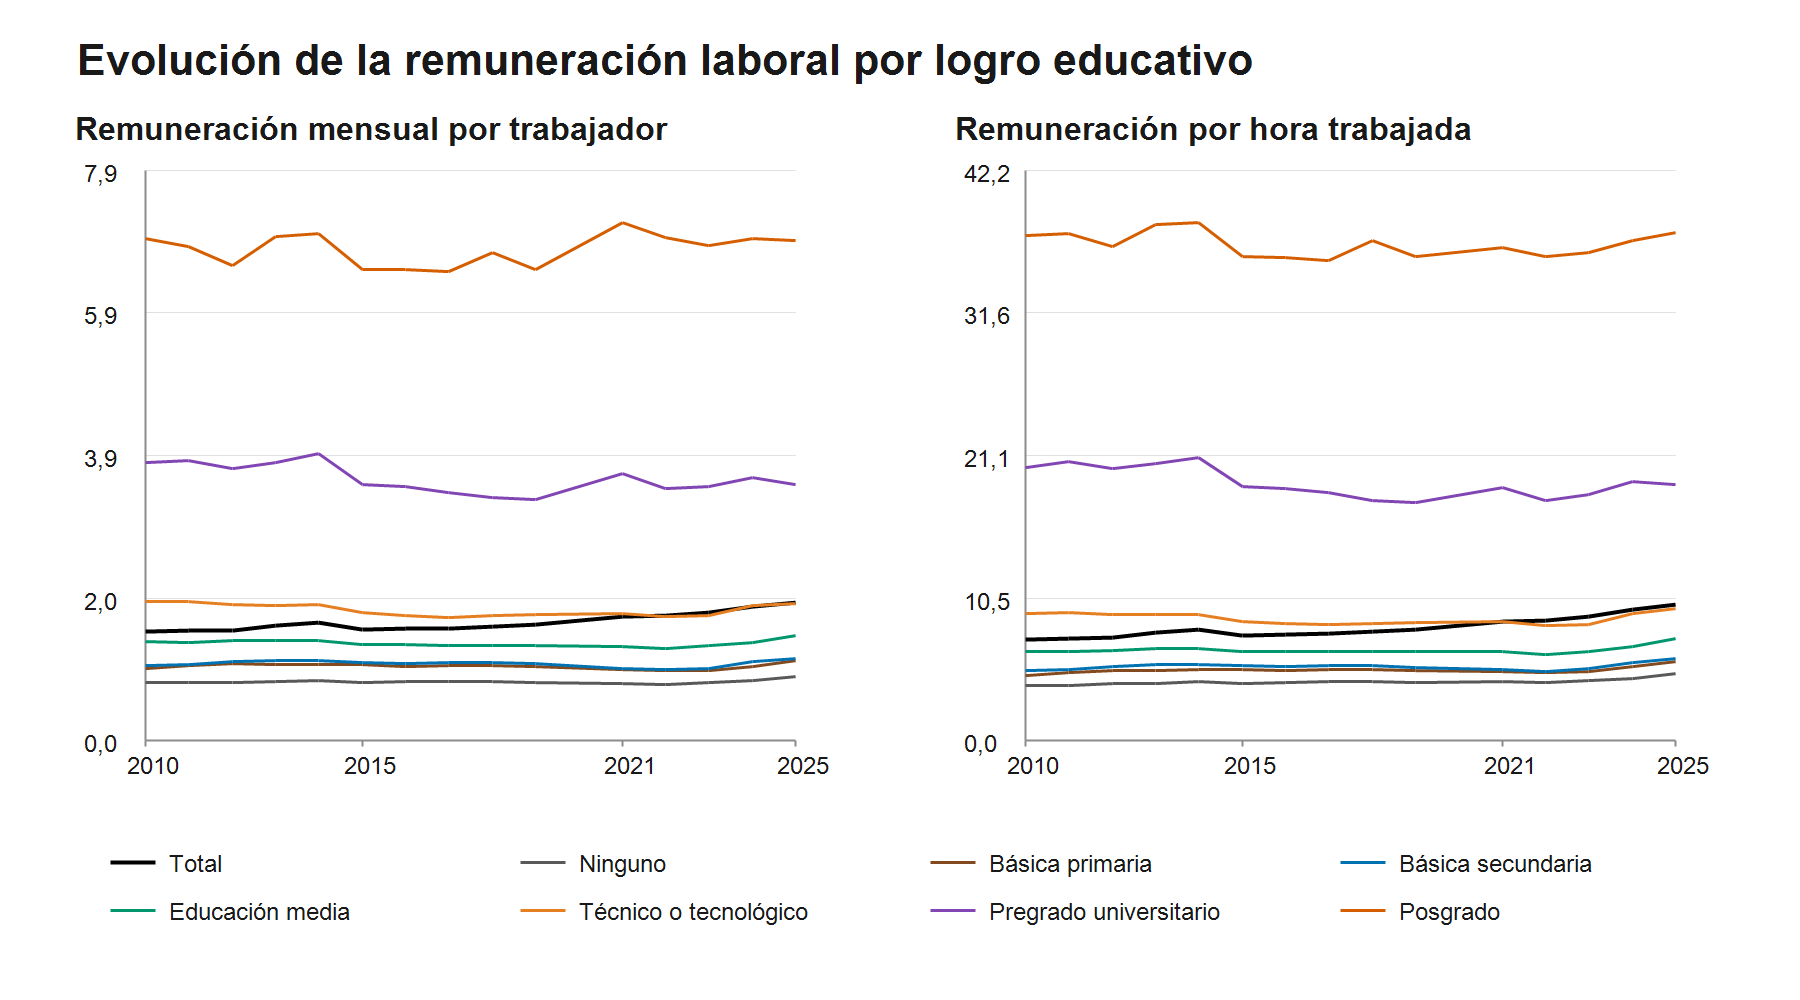
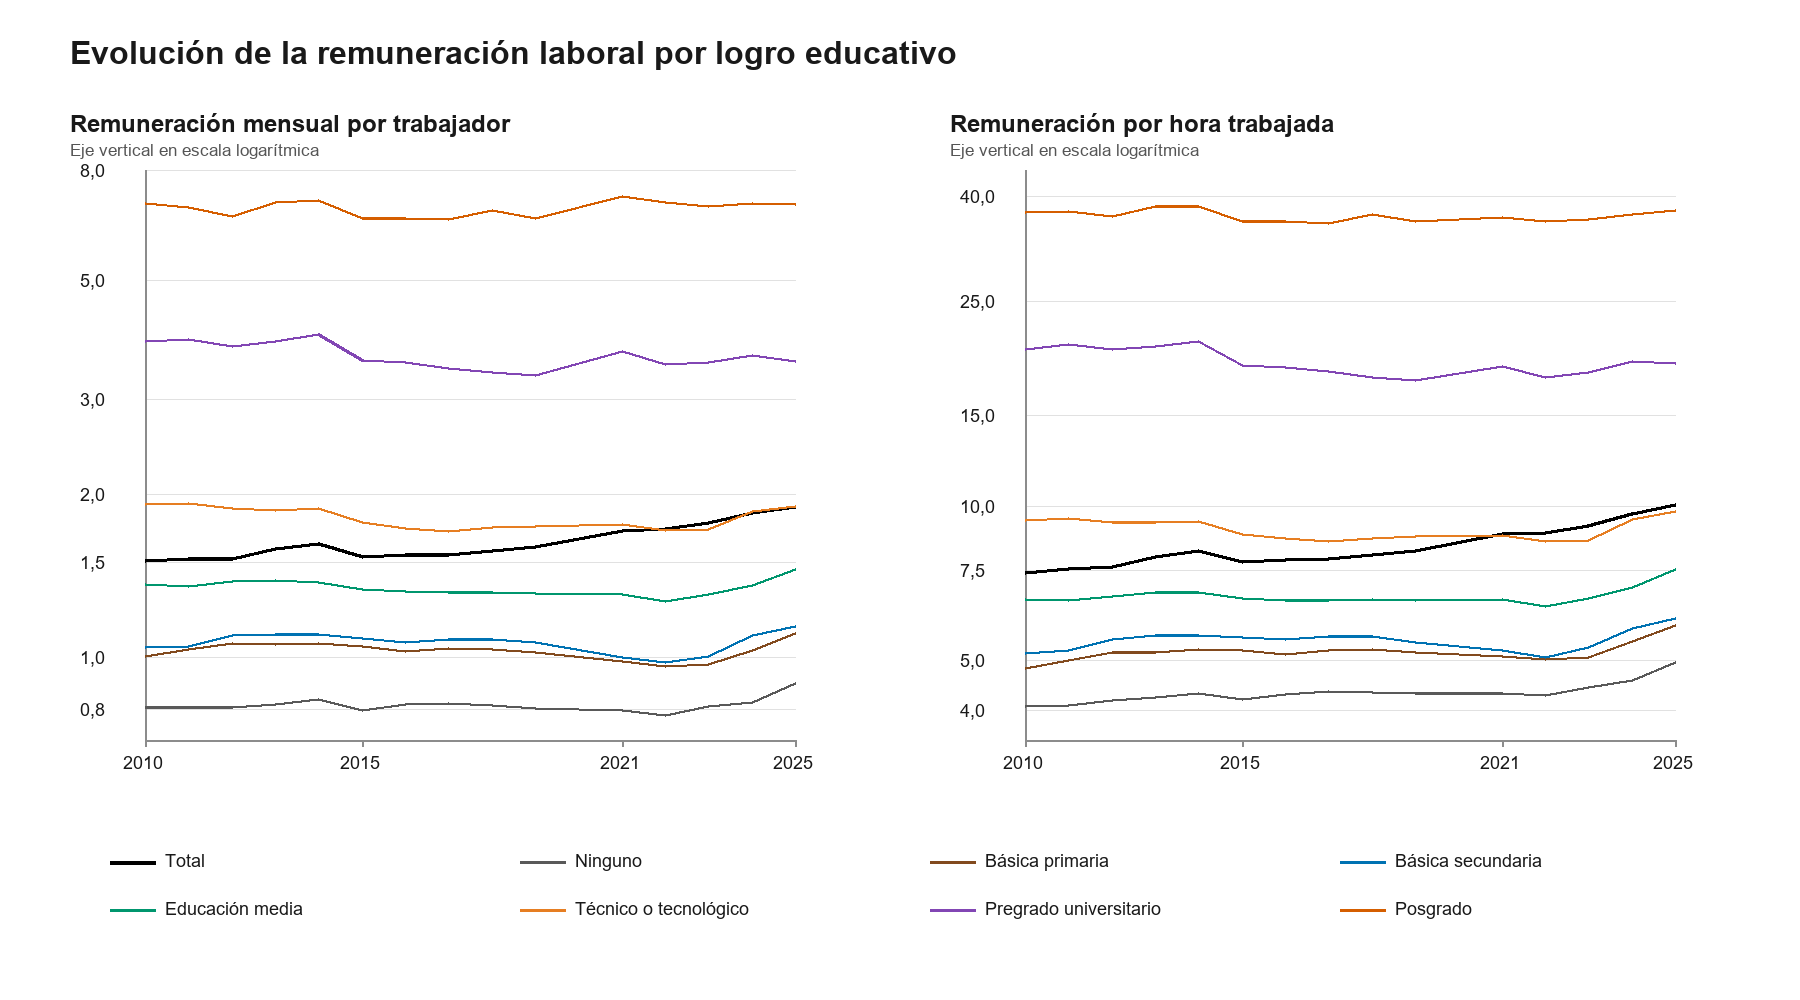
Usa escala logaritmica en figura A1

diff --git a/Paper/sections/apendice_cuadros_educacion_comparable.tex b/Paper/sections/apendice_cuadros_educacion_comparable.tex
@@ -14,7 +14,7 @@
   \includegraphics[width=0.98\textwidth]{Paper/figures/fig_remuneracion_educacion_series_comparables.png}
   \caption{Evolución de la remuneración laboral total y por logro educativo, 2010--2025}
   \label{fig:remuneracion_educacion_series_comparables}
-  \caption*{\footnotesize Nota: el panel izquierdo muestra la remuneración mensual por trabajador en millones de pesos mensuales de 2025. El panel derecho muestra la remuneración por hora trabajada en miles de pesos de 2025. La serie excluye 2020. Fuente: cálculos propios con GEIH del DANE.}
+  \caption*{\footnotesize Nota: el panel izquierdo muestra la remuneración mensual por trabajador en millones de pesos mensuales de 2025. El panel derecho muestra la remuneración por hora trabajada en miles de pesos de 2025. El eje vertical de ambos paneles está en escala logarítmica. La serie excluye 2020. Fuente: cálculos propios con GEIH del DANE.}
 \end{figure}
 
 % Bloque desactivado: este cuadro correspondía a la agregación anterior de tres logros educativos.
